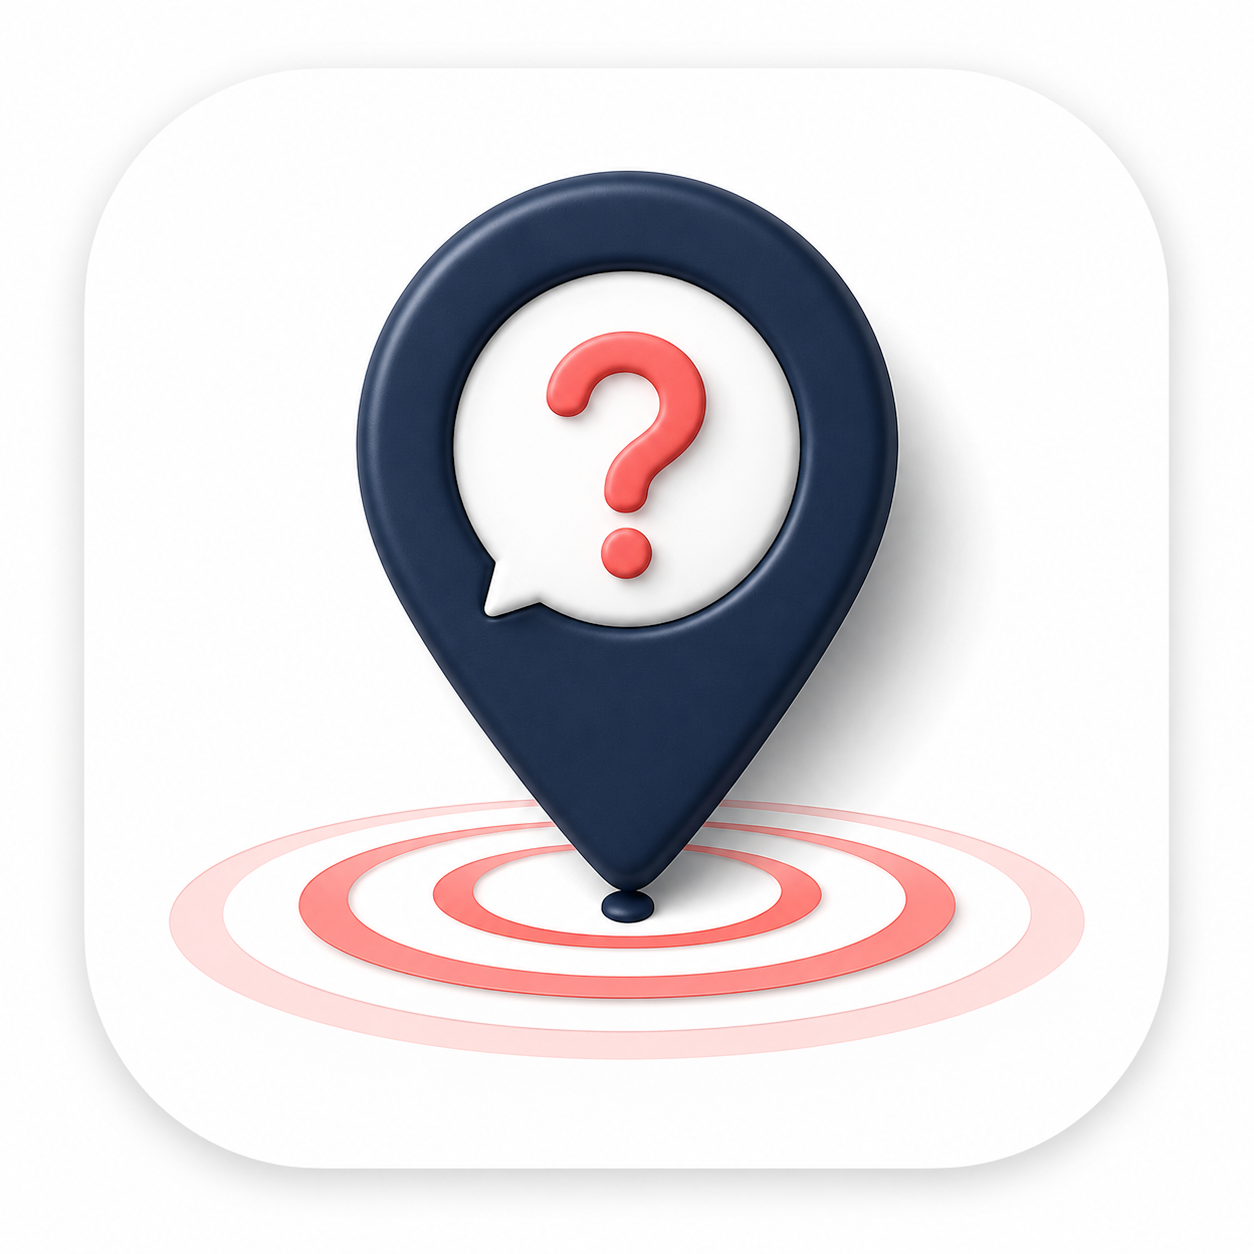
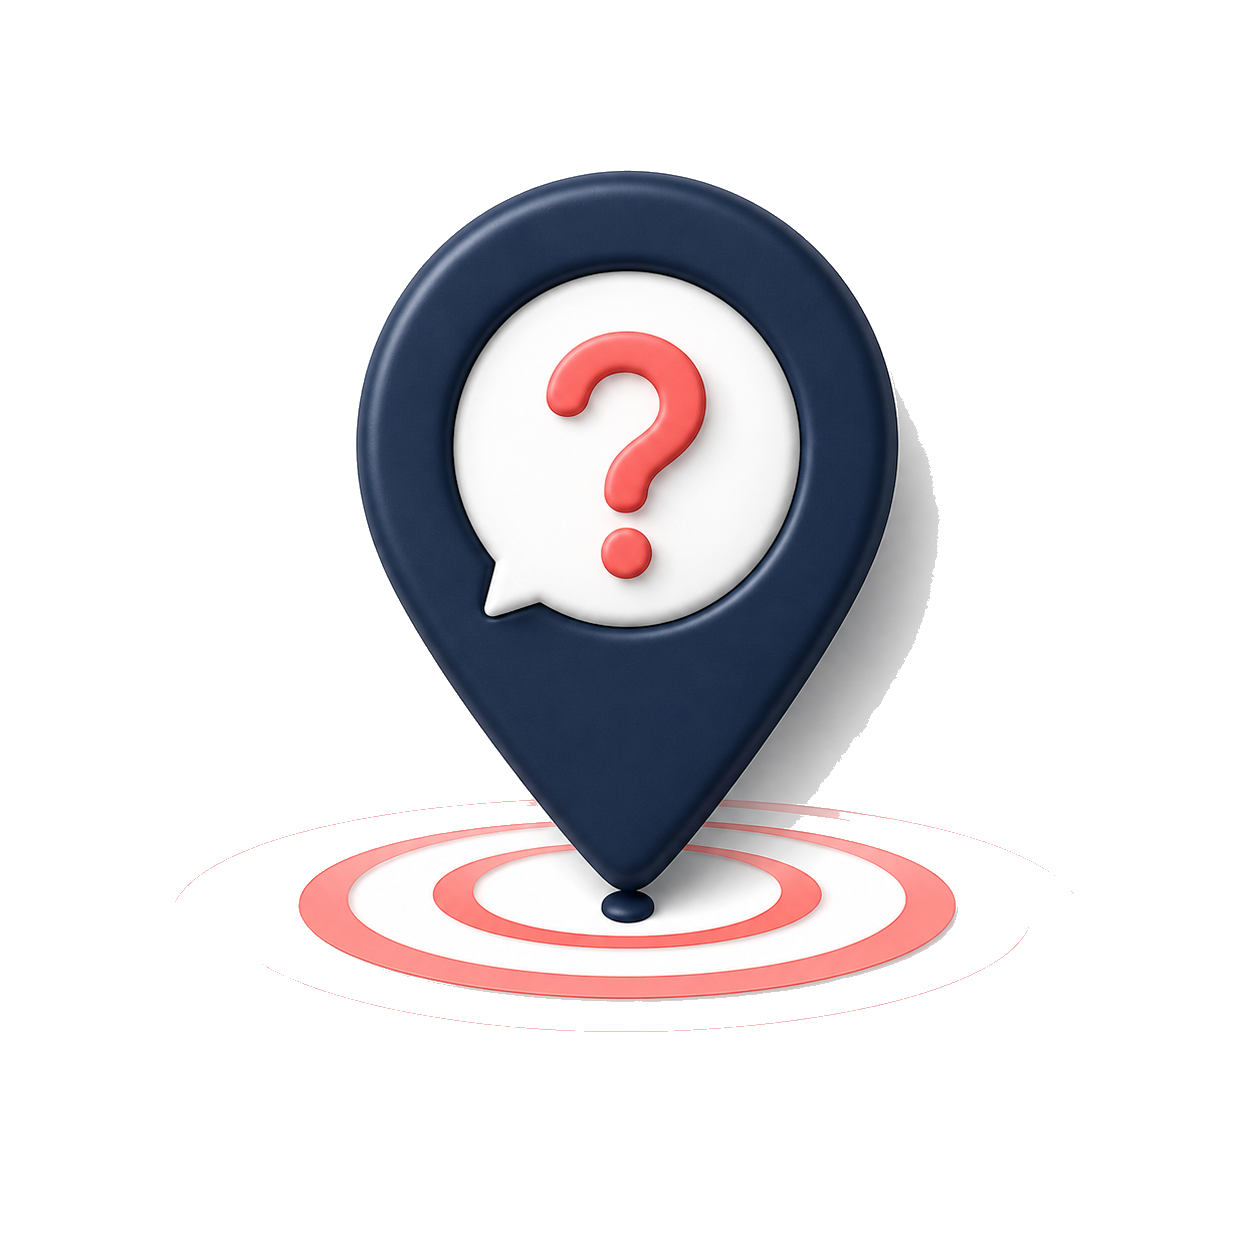
이쯤 한글로고 추가

diff --git a/src/components/screens/IntroScreen.jsx b/src/components/screens/IntroScreen.jsx
@@ -1,5 +1,6 @@
 import { motion } from "framer-motion";
 import logoUrl from "../../assets/logo.png";
+import wordmarkUrl from "../../assets/wordmark.png";
 
 const FLOW_STEPS = ["어디서 모일까?", "조건 선택", "이쯤 찾아볼게요!", "여기쯤 어때?"];
 
@@ -13,9 +14,14 @@ export default function IntroScreen({ onStart }) {
         animate={{ y: [0, -10, 0] }}
         transition={{ duration: 3, repeat: Infinity, ease: "easeInOut" }}
       />
-      <motion.h1 initial={{ opacity: 0, y: 8 }} animate={{ opacity: 1, y: 0 }} transition={{ delay: 0.1 }}>
-        📍 이쯤
-      </motion.h1>
+      <motion.img
+        src={wordmarkUrl}
+        alt="이쯤"
+        className="wordmark"
+        initial={{ opacity: 0, y: 8 }}
+        animate={{ opacity: 1, y: 0 }}
+        transition={{ delay: 0.1 }}
+      />
       <motion.p
         className="slogan"
         initial={{ opacity: 0, y: 8 }}

diff --git a/src/styles/index.css b/src/styles/index.css
@@ -197,11 +197,10 @@ button {
   margin-bottom: 18px;
 }
 
-.hero h1 {
-  font-size: 32px;
-  color: var(--primary);
-  margin: 0 0 6px;
-  letter-spacing: -0.03em;
+.wordmark {
+  height: 34px;
+  width: auto;
+  margin: 0 0 10px;
 }
 
 .slogan {
